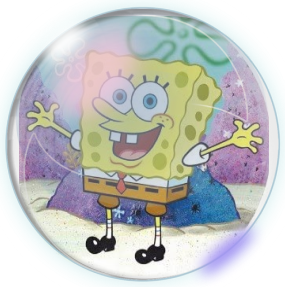
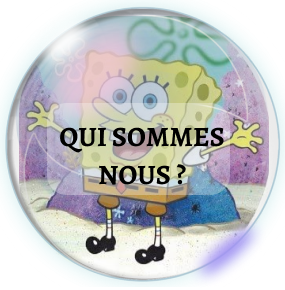
bubble

Changed region(s): [[0.1404, 0.3414, 0.814, 0.6828]]

diff --git a/main.js b/main.js
@@ -44,69 +44,59 @@ divLeft1.appendChild(imgAcc);
 // -----------------RIGHT-----------------
 const divRight1 = document.createElement("div");
 const divBubblesR = document.createElement("div");
-const divBubble1 = document.createElement("div");
-const divBubble2 = document.createElement("div");
-const divBubble3 = document.createElement("div");
+// const divBubble1 = document.createElement("div");
+// const divBubble2 = document.createElement("div");
+// const divBubble3 = document.createElement("div");
 const imgBubble1 = document.createElement("img");
 const imgBubble2 = document.createElement("img");
 const imgBubble3 = document.createElement("img");
-const aboutAcc = document.createElement("div");
-const rhumAcc = document.createElement("div");
-const sugAcc = document.createElement("div");
 
 divBubblesR.className = "divBubblesR";
-divBubble1.className = "divBubble1";
-divBubble2.className = "divBubble2";
-divBubble3.className = "divBubble3";
+// divBubble1.className = "divBubble1";
+// divBubble2.className = "divBubble2";
+// divBubble3.className = "divBubble3";
 imgBubble1.className = "imgBubble1";
 imgBubble1.src = "img/BubbleBob.png";
 imgBubble2.className = "imgBubble2";
 imgBubble2.src = "img/BubbleRhum.png";
 imgBubble3.className = "imgBubble3";
 imgBubble3.src = "img/BubbleSug.png";
-aboutAcc.className = "aboutAcc";
-aboutAcc.innerHTML = "Qui sommes-nous ?";
-rhumAcc.className = "rhumAcc";
-rhumAcc.innerHTML = "Découvrez nos rhums";
-sugAcc.className = "sugAcc";
-sugAcc.innerHTML = "Découvrez nos sucres de canne";
 
 section1.appendChild(divRight1);
 divRight1.appendChild(divBubblesR);
-divBubblesR.appendChild(divBubble1);
-divBubblesR.appendChild(divBubble2);
-divBubblesR.appendChild(divBubble3);
-divBubble1.appendChild(imgBubble1);
-divBubble2.appendChild(imgBubble2);
-divBubble3.appendChild(imgBubble3);
-divBubble1.appendChild(aboutAcc);
-divBubble2.appendChild(rhumAcc);
-divBubble3.appendChild(sugAcc);
+divBubblesR.appendChild(imgBubble1);
+divBubblesR.appendChild(imgBubble2);
+divBubblesR.appendChild(imgBubble3);
+// divBubble1.appendChild(imgBubble1);
+// divBubble2.appendChild(imgBubble2);
+// divBubble3.appendChild(imgBubble3);
 
-// SECTION 2
+// // SECTION 2
 
-const section2 = document.createElement("section");
-const divLeft2 = document.createElement("div");
-const imgS2 = document.createElement("img");
+// const section2 = document.createElement("section");
+// const divLeft2 = document.createElement("div");
+// const imgS2 = document.createElement("img");
+// const aboutus = ducument.createElement("div");
 
-section2.className = "section2";
-divLeft2.className = "divLeft2";
-imgS2.className = "imgS2";
-imgS2.src = "img/BubbleBob.png";
+// section2.className = "section2";
+// divLeft2.className = "divLeft2";
+// imgS2.className = "imgS2";
+// imgS2.src = "img/BubbleBob.png";
 
-document.body.appendChild(section2);
-section2.appendChild(divLeft2);
-divLeft2.appendChild(imgS2);
+// document.body.appendChild(section2);
+// section2.appendChild(divLeft2);
+// divLeft2.appendChild(imgS2);
 
-// SECTION 3
+// // RIGHT
+// // SECTION 3
 
-const section3 = document.createElement("section");
-const divLeft3 = document.createElement("div");
-const imgS3 = document.createElement("img");
+// const section3 = document.createElement("section");
+// const divLeft3 = document.createElement("div");
+// const imgS3 = document.createElement("img");
 
-imgS3.className = "imgS3";
-imgS3.src = "img/Accueil(2).png";
+// imgS3.className = "imgS3";
+// imgS3.src = "img/Accueil(2).png";
 
-document.body.appendChild(section3);
-section3.appendChild(divLeft3);
-divLeft3.appendChild(imgS3);
+// document.body.appendChild(section3);
+// section3.appendChild(divLeft3);
+// divLeft3.appendChild(imgS3);

diff --git a/style.css b/style.css
@@ -22,7 +22,6 @@ body {
 }
 
 img {
-  height: 80px;
   width: 210px;
 }
 
@@ -68,7 +67,7 @@ section {
   justify-items: center;
   height: 500px;
   width: 500px;
-  margin-top: 25vh;
+  margin-top: 30vh;
   margin-left: 10%;
 }
 
@@ -88,14 +87,8 @@ section {
   margin-left: 30vw;
   display: flex;
   flex-direction: column;
-}
-
-.divBubble1,
-.divBubble2,
-.divBubble3 {
-  height: 30vh;
-  width: 20vw;
-  display: flex;
+  position: relative;
+  height: 20px;
 }
 
 .imgBubble1,
@@ -107,55 +100,22 @@ section {
 
 .imgBubble2 {
   margin-left: 12vh;
-  margin-top: -8vh;
+  margin-top: -5vh;
 }
 .imgBubble3 {
-  margin-top: -20vh;
+  margin-top: -15vh;
   margin-left: -15vh;
-}
-
-.aboutAcc {
-  height: 30px;
-  width: 130px;
-  color: black;
-  font-size: 22px;
-  text-align: center;
-  margin-left: -12vw;
-  margin-top: 8vh;
-}
-.rhumAcc {
-  height: 30px;
-  width: 130px;
-  color: black;
-  font-size: 22px;
-  text-align: center;
-  margin-left: -12vw;
-  margin-top: 3vh;
-}
-
-.sugAcc {
-  height: 30px;
-  width: 130px;
-  color: black;
-  font-size: 22px;
-  text-align: center;
-  margin-left: -12vw;
-  margin-top: -10vh;
 }
 
 /* SECTION 2 */
 
-.section2,
-.section3 {
-  height: 100vh;
-  width: 100wv;
+.section2 {
+  height: 130vh;
+  width: 100vw;
+  margin-top: 40vh;
 }
 
-/* .imgS2,
-.imgS3 {
-  justify-items: center;
-  height: 500px;
-  width: 500px;
-  top: 10%;
-  left: 10%;
-} */
+.divImgS2 {
+  position: absolute;
+  z-index: 1;
+}

diff --git a/index.php b/index.php
@@ -13,6 +13,85 @@
 <body>
 
     <script src="./main.js"> </script>
+
+    <!-- SECTION 2 -->
+    <section class="section2">
+
+        <div class="divLeft">
+
+            <div>
+                <img class="imgS2" src="img/BubbleBob.png">
+                <div></div>
+            </div>
+        </div>
+
+        <div class="divRight">
+            <div class="divBubblesR">
+                <div class="divImgS2">
+                    <img class="imgBubble1" src="img/image 2.png">
+                </div>
+                <div class="divTxtS2" style="position:absolute; top:56px; width: 220px; height: 230px; z-index:2; font-size: 100%; text-align: center">
+                    <p><b>BOB</b> <br></br>Lorem ipsum, dolor sit amet consectetur adipis icing elit. Ducimus, illo.</p>
+                </div>
+            </div>
+
+            <div class="divBubblesR">
+                <div class="divImgS2">
+                    <img class="imgBubble2" src="img/image 2.png">
+                </div>
+                <div style="position:absolute; top:56px; width: 220px; height: 230px; z-index:2; font-size: 100%; text-align: center; margin-left: 12vh; margin-top: -5vh;">
+                    <p><b>BIO</b> <br></br>Lorem ipsum, dolor sit amet consectetur adipis icing elit. Ducimus, illo.</p>
+                </div>
+            </div>
+
+            <div class="divBubblesR">
+                <div class="divImgS2">
+                    <img class="imgBubble3" src="img/image 2.png">
+                </div>
+                <div style="position:absolute; top:56px; width: 220px; height: 230px; z-index:2; font-size: 100%; text-align: center; margin-top: -15vh; margin-left: -15vh;">
+                    <p><b>VALEURS</b> <br></br>Lorem ipsum, dolor sit amet consectetur adipis icing elit. Ducimus, illo.</p>
+                </div>
+            </div>
+
+
+
+        </div>
+
+    </section>
+
+
+    <!-- SECTION 3 -->
+    <section class="section3">
+        <div class="divLeft3">
+
+            <div>
+                <img class="imgS2" src="img/BubbleRhum (2).png">
+                <div></div>
+            </div>
+        </div>
+
+        <div class="divRight">
+
+            <div>
+                <img class="imgS2" src="img/Buuuble.png">
+                <div></div>
+            </div>
+        </div>
+
+    </section>
+
+    <!-- SECTION 4 -->
+
+    <div class="divLeft">
+
+        <div>
+            <img class="imgS2" src="img/BubbleSug (1).png">
+            <div></div>
+        </div>
+    </div>
+
+
+
 </body>
 
 </html>
